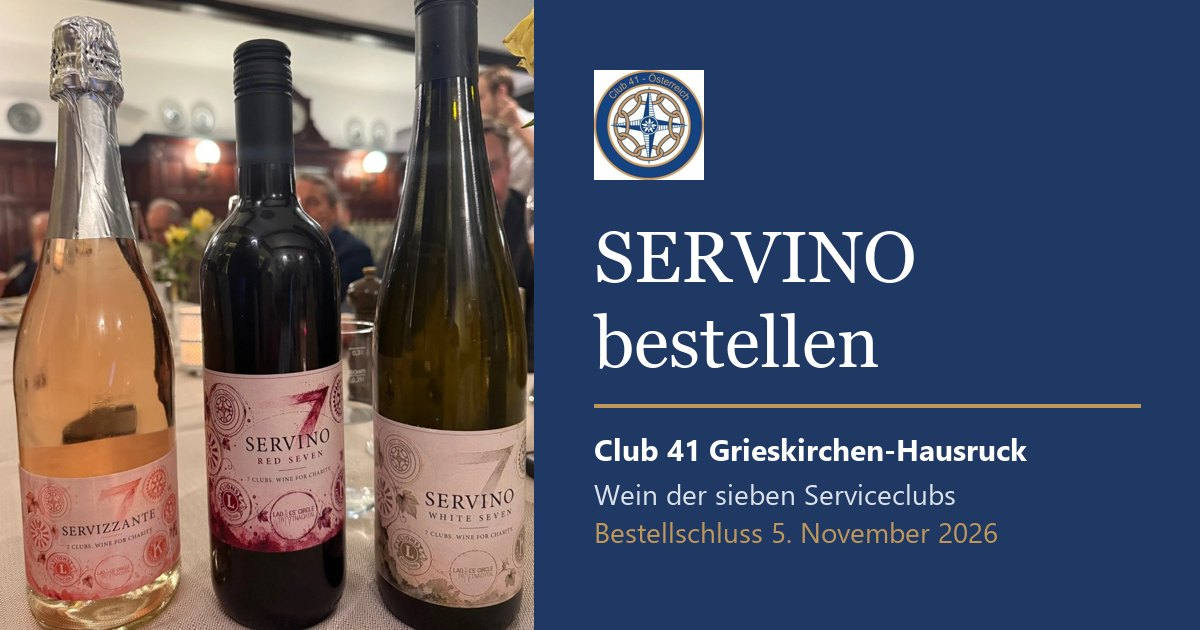
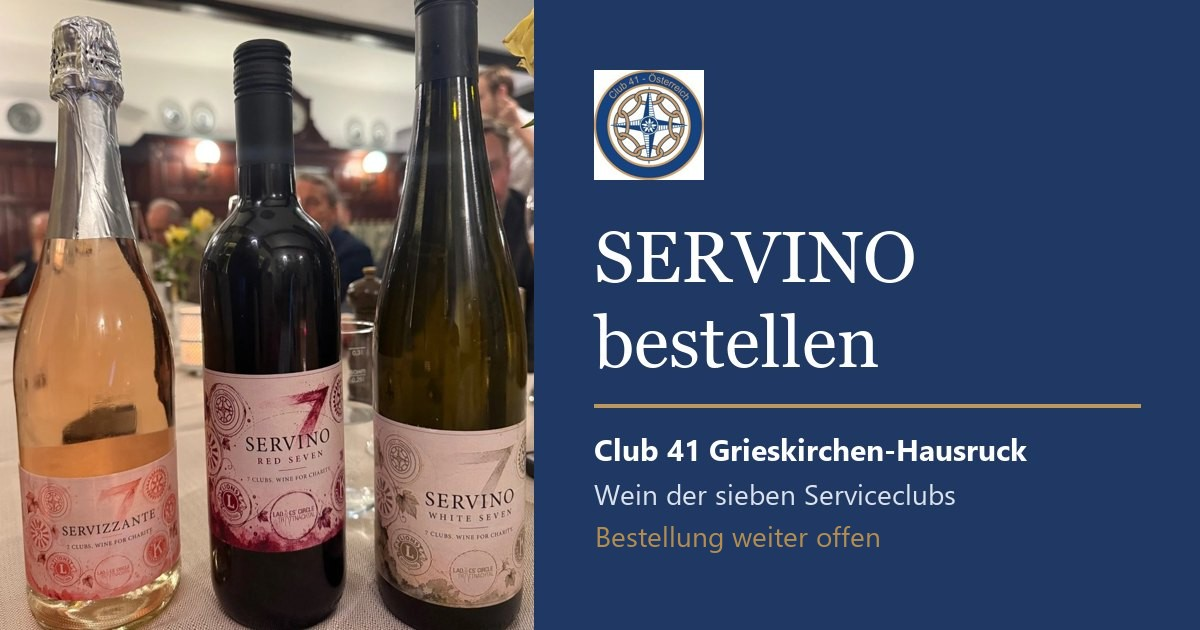
Bestellschluss aufgehoben: Einleitung, Linkbeschreibung und Vorschaubild

Changed region(s): [[0.4933, 0.8143, 0.8325, 0.8746]]

diff --git a/index.html b/index.html
@@ -5,12 +5,12 @@
 <meta name="viewport" content="width=device-width, initial-scale=1">
 <meta name="robots" content="noindex">
 <title>SERVINO bestellen · Club 41</title>
-<meta name="description" content="Dein persönlicher Bestelllink für SERVINO, den Wein der sieben Grieskirchner Serviceclubs. Bestellschluss 5. November 2026.">
+<meta name="description" content="Dein persönlicher Bestelllink für SERVINO, den Wein der sieben Grieskirchner Serviceclubs. Wegen der großen Nachfrage ohne Bestellschluss.">
 <meta property="og:type" content="website">
 <meta property="og:locale" content="de_AT">
 <meta property="og:site_name" content="Club 41 Grieskirchen-Hausruck">
 <meta property="og:title" content="SERVINO bestellen · Club 41">
-<meta property="og:description" content="Dein persönlicher Bestelllink für SERVINO, den Wein der sieben Grieskirchner Serviceclubs. Bestellschluss 5. November 2026.">
+<meta property="og:description" content="Dein persönlicher Bestelllink für SERVINO, den Wein der sieben Grieskirchner Serviceclubs. Wegen der großen Nachfrage ohne Bestellschluss.">
 <meta property="og:url" content="https://hanspeter-meissl.github.io/c41-servino/">
 <meta property="og:image" content="https://hanspeter-meissl.github.io/c41-servino/bilder/vorschau.jpg">
 <meta property="og:image:width" content="1200">
@@ -140,7 +140,7 @@
   <div class="regel">
     <p>Für jeden vollen Karton mit 6 Flaschen derselben Sorte gilt der Kartonpreis. Gemischte Flaschen kosten den Einzelpreis. Die Mindestbestellung sind 6 Flaschen.</p>
     <p>Neu dazu gibt es das Wein-Geschenksackerl mit Sichtfenster um 1,90 € je Stück. Auch hier kommt der Erlös einem karitativen Zweck zugute.</p>
-    <p>Bestellschluss ist Donnerstag, 5. November 2026. Abholung und Verkostung beim Meeting am 12. November. Den Betrag bucht Christian ab.</p>
+    <p>Wegen der großen Nachfrage gibt es keinen Bestellschluss mehr, du kannst weiter bestellen. Abholung und Verkostung beim Meeting am 12. November. Den Betrag bucht Christian ab.</p>
   </div>
   </div>
 
